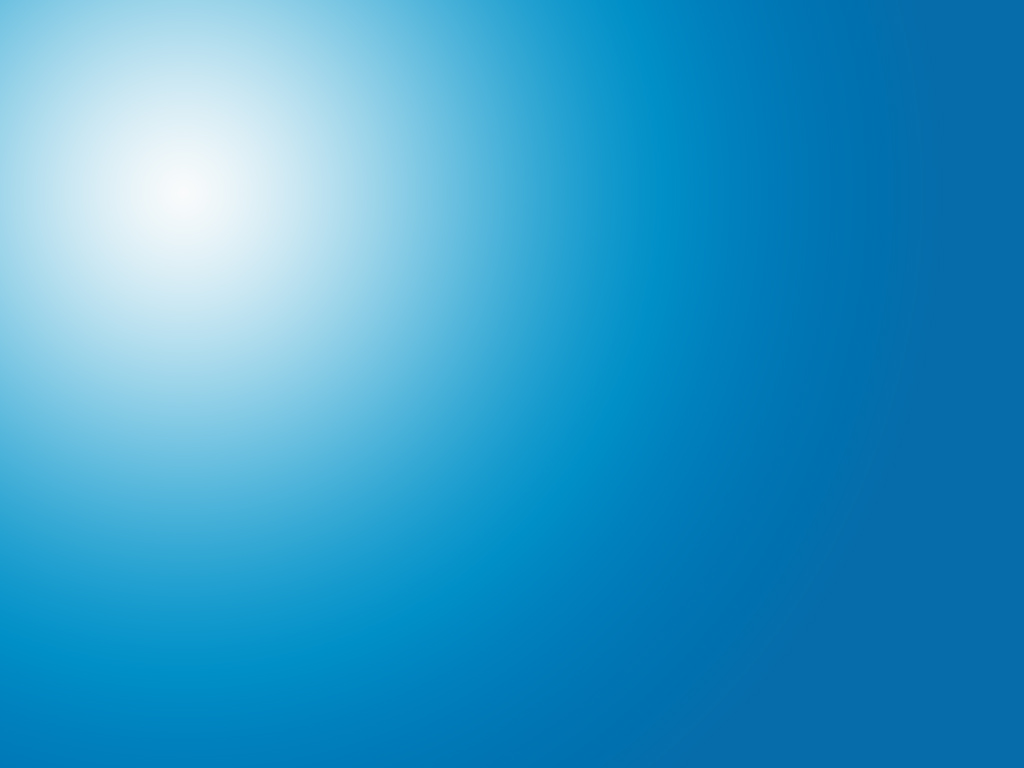
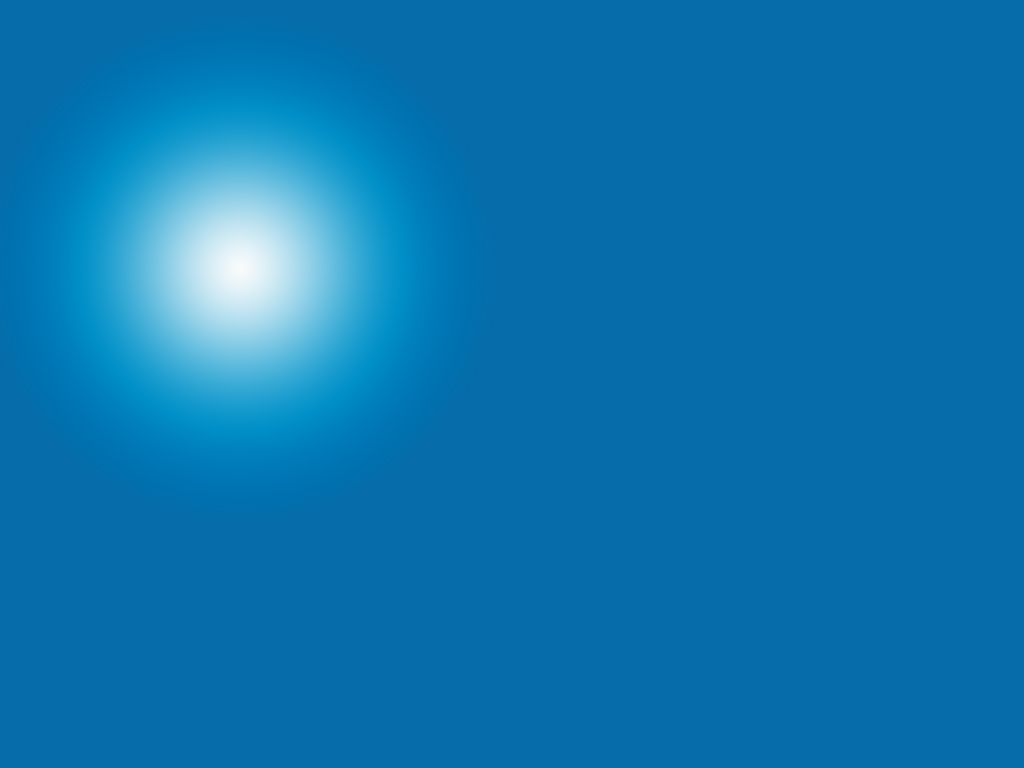
New login screen appearance

diff --git a/ui-new/css/cloudstack3.css b/ui-new/css/cloudstack3.css
@@ -201,14 +201,16 @@ table th div.ui-resizable-handle {
 }
 
 /*Login screen*/
+body.login {
+  background: #066CAA url(../images/bg-login.jpg) no-repeat 50% -82px;
+}
+
 .login {
-  width: 1024px;
-  height: 768px;
-  margin: auto;
-  overflow: hidden;
-  border-top: none;
-  position: relative;
-  background: url(../images/bg-login.jpg);
+  display: block;
+  width: 100%;
+  height: 245px;
+  margin: 166px auto auto;
+  background: #FFFFFF;
 }
 
 .login .fields {
@@ -240,12 +242,17 @@ table th div.ui-resizable-handle {
   height: 20px;
   margin: 5px 0 0;
   text-indent: 7px;
-  border: 1px solid #CACACA;
+  border: none;
   /*+border-radius:3px;*/
   -moz-border-radius: 3px;
   -webkit-border-radius: 3px;
   -khtml-border-radius: 3px;
   border-radius: 3px 3px 3px 3px;
+  /*+box-shadow:inset 0px 1px 1px #4E4E4E;*/
+  -moz-box-shadow: inset 0px 1px 1px #4E4E4E;
+  -webkit-box-shadow: inset 0px 1px 1px #4E4E4E;
+  -o-box-shadow: inset 0px 1px 1px #4E4E4E;
+  box-shadow: inset 0px 1px 1px #4E4E4E;
   background: #ECECEC;
 }
 
@@ -278,8 +285,9 @@ table th div.ui-resizable-handle {
 
 .login form {
   display: block;
-  height: 245px;
-  margin: 225px 0 0;
+  width: 1000px;
+  height: 100%;
+  margin: auto;
   background: #FFFFFF;
 }
 

diff --git a/ui-new/js/ui-custom/login.js b/ui-new/js/ui-custom/login.js
@@ -19,7 +19,8 @@
       return;
     }
 
-    $login.appendTo($container);
+    $login.appendTo('html body');
+    $('html body').addClass('login');
 
     // Form validation
     $form.validate();
@@ -54,6 +55,7 @@
         response: {
           success: function(args) {
             $login.remove();
+            $('html body').removeClass('login');
             complete({
               user: {
                 login: data.username
